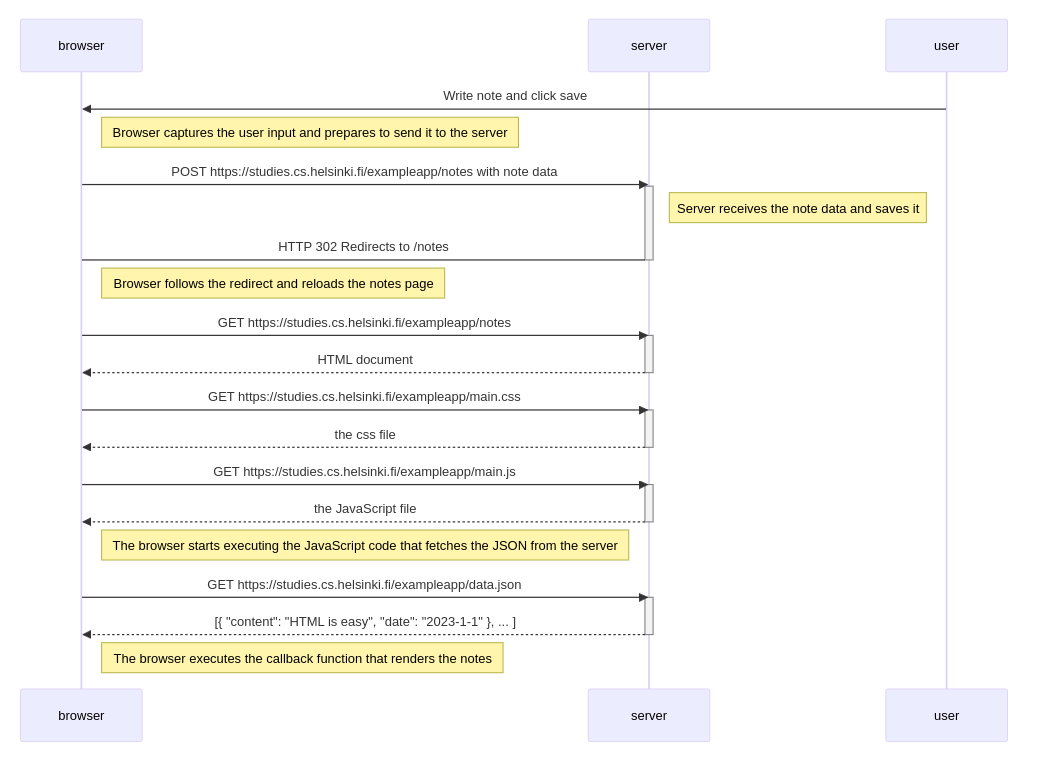
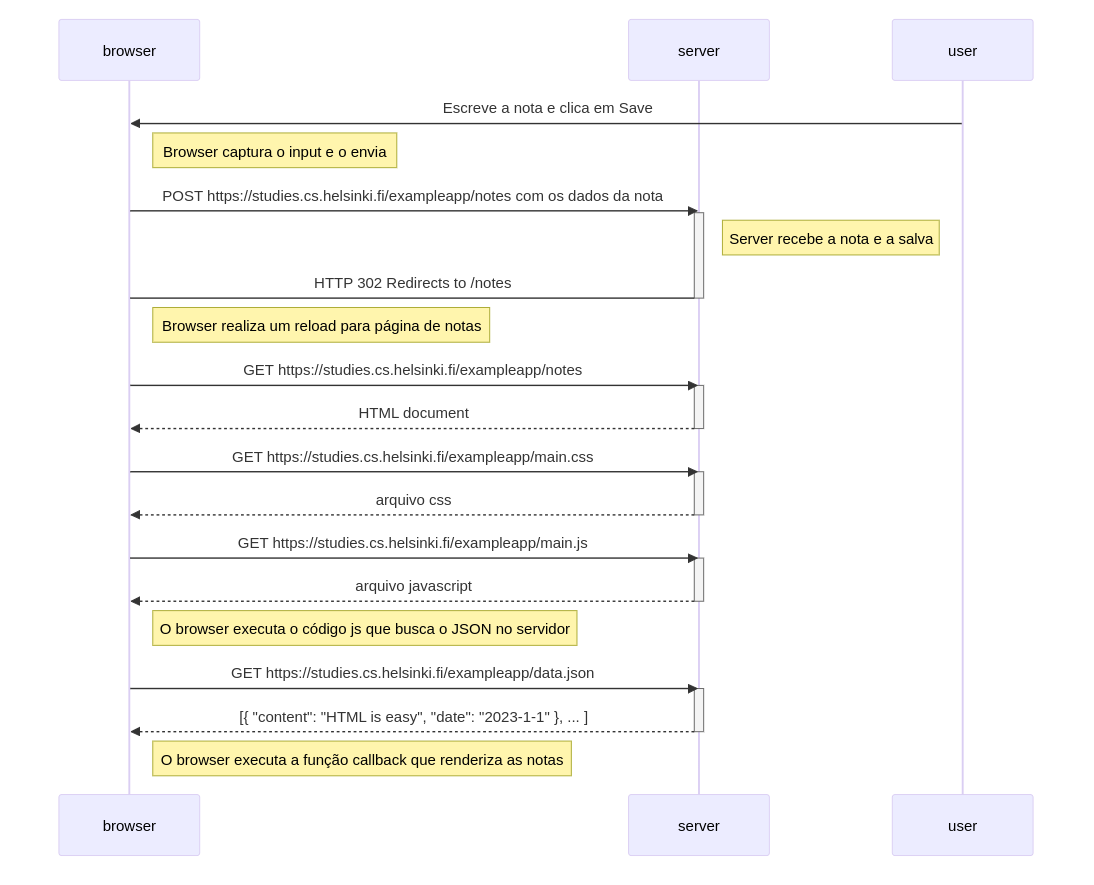
release: Update diagram

diff --git a/part0/NewNoteDiagram.md b/part0/NewNoteDiagram.md
@@ -6,18 +6,18 @@ sequenceDiagram
     participant server
     participant user
 
-    user->>browser: Write note and click save
-    Note right of browser: Browser captures the user input and prepares to send it to the server
+    user->>browser: Escreve a nota e clica em Save
+    Note right of browser: Browser captura o input e o envia
 
 
-    browser->>server: POST https://studies.cs.helsinki.fi/exampleapp/notes with note data
+    browser->>server: POST https://studies.cs.helsinki.fi/exampleapp/notes com os dados da nota
 
     activate server
-    Note right of server: Server receives the note data and saves it
+    Note right of server: Server recebe a nota e a salva
     server->browser: HTTP 302 Redirects to /notes
     deactivate server
 
-    Note right of browser: Browser follows the redirect and reloads the notes page
+    Note right of browser: Browser realiza um reload para página de notas
 
     browser->>server: GET https://studies.cs.helsinki.fi/exampleapp/notes
     activate server
@@ -26,20 +26,20 @@ sequenceDiagram
 
     browser->>server: GET https://studies.cs.helsinki.fi/exampleapp/main.css
     activate server
-    server-->>browser: the css file
+    server-->>browser: arquivo css
     deactivate server
 
     browser->>server: GET https://studies.cs.helsinki.fi/exampleapp/main.js
     activate server
-    server-->>browser: the JavaScript file
+    server-->>browser: arquivo javascript
     deactivate server
 
-    Note right of browser: The browser starts executing the JavaScript code that fetches the JSON from the server
+    Note right of browser: O browser executa o código js que busca o JSON no servidor
 
     browser->>server: GET https://studies.cs.helsinki.fi/exampleapp/data.json
     activate server
     server-->>browser: [{ "content": "HTML is easy", "date": "2023-1-1" }, ... ]
     deactivate server
 
-    Note right of browser: The browser executes the callback function that renders the notes
+    Note right of browser: O browser executa a função callback que renderiza as notas
 ```

diff --git a/part0/Single-page-app.md b/part0/Single-page-app.md
@@ -4,28 +4,28 @@ sequenceDiagram
     participant browser
     participant server
 
-    user->>browser: Navigate to https://studies.cs.helsinki.fi/exampleapp/spa
+    user->>browser: Navega para a rota https://studies.cs.helsinki.fi/exampleapp/spa
     browser->>server: GET https://studies.cs.helsinki.fi/exampleapp/spa
     activate server
     server-->>browser: HTML document (SPA shell)
     deactivate server
-
+![alt text](image.png)
     browser->>server: GET https://studies.cs.helsinki.fi/exampleapp/main.css
     activate server
-    server-->>browser: the css file
+    server-->>browser: arquivo css
     deactivate server
 
     browser->>server: GET https://studies.cs.helsinki.fi/exampleapp/spa.js
     activate server
-    server-->>browser: the JavaScript file
+    server-->>browser: arquivo javascript
     deactivate server
 
-    Note right of browser: The browser starts executing the JavaScript code of the SPA
+    Note right of browser: O browser executa o código javascript para atualizar o array de notas
 
     browser->>server: GET https://studies.cs.helsinki.fi/exampleapp/data.json
     activate server
     server-->>browser: [{ "content": "HTML is easy", "date": "2023-1-1" }, ... ]
     deactivate server
 
-    Note right of browser: The browser executes the callback function that renders the notes in the SPA
+    Note right of browser: O browser executa a função callback que irá atualizar a lista de notas na tela SPA
 ```

diff --git a/part0/NewNoteInSinglePage.md b/part0/NewNoteInSinglePage.md
@@ -4,15 +4,15 @@ sequenceDiagram
     participant browser
     participant server
 
-    user->>browser: Write note and click Save
-    Note right of browser: Browser captures the user input and prepares to send it to the server
+    user->>browser: Escreve a nota e clica em Save
+    Note right of browser: Browser captura o input e o envia
 
-    browser->>server: POST https://studies.cs.helsinki.fi/exampleapp/new_note_spa with note data
+    browser->>server: POST https://studies.cs.helsinki.fi/exampleapp/new_note_spa com os dados da nota
     activate server
-    Note right of server: Server receives the new note data and saves it
+    Note right of server: Servidor recebe a nova nota e a salva
     server-->>browser: { "content": "new note", "date": "2024-5-30" }
     deactivate server
 
-    Note right of browser: The browser updates the note list dynamically without reloading the page
-    browser->>browser: Render the new note in the list
+    Note right of browser: O browser atualiza a lista dinamicamente com o JS sem a necessidade de recarregar a página
+    browser->>browser: Renderiza a nova lista atualizada com a nova nota!
 ```
